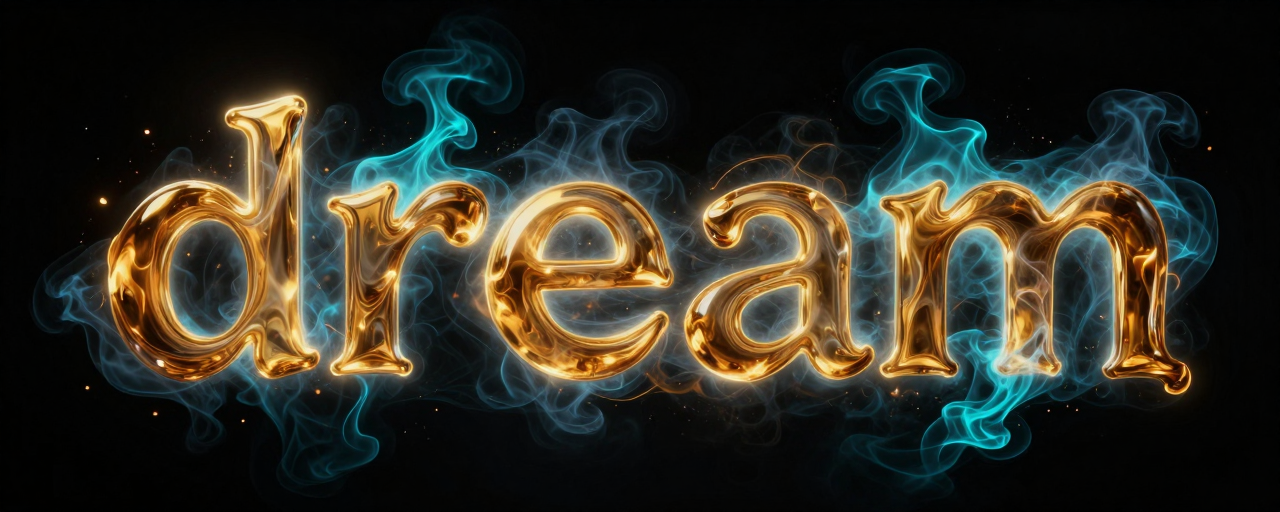
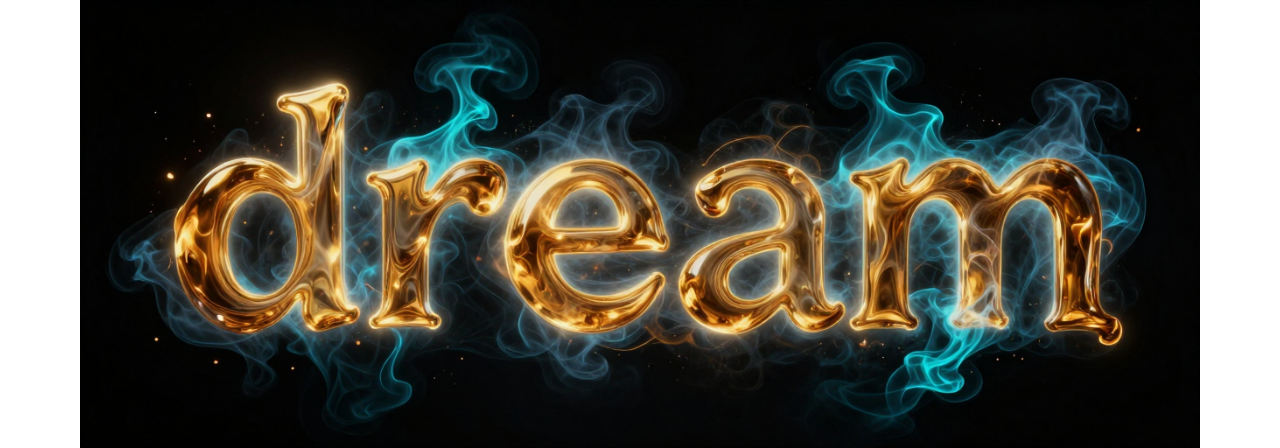
art: Fibonacci-nautilus dream hero (single image morphing neon->gold->crystal->aurora), rounded corners; alternatives folded

diff --git a/README.md b/README.md
@@ -1,23 +1,30 @@
 <div align="center">
 
-<!-- PICK ONE (temporary) -->
+<img src="assets/banner-spiral.png" alt="dream — a Fibonacci nautilus morphing through neon, gold, crystal and aurora" width="760">
+
+<!-- PICK ONE (temporary) — alternatives -->
+<details>
+<summary><b>Other directions</b></summary>
+
+<br>
 
 **A — Neon noir**
 
-<img src="assets/banner-neon.png" alt="neon noir" width="720">
+<img src="assets/banner-neon.png" alt="neon noir" width="640">
 
 **B — Liquid gold & smoke**
 
-<img src="assets/banner-ink.png" alt="liquid gold and smoke" width="720">
+<img src="assets/banner-ink.png" alt="liquid gold and smoke" width="640">
 
 **C — Crystalline portal**
 
-<img src="assets/banner-crystal.png" alt="crystalline portal" width="720">
+<img src="assets/banner-crystal.png" alt="crystalline portal" width="640">
 
 **D — Aurora**
 
-<img src="assets/banner-aurora.png" alt="aurora" width="720">
+<img src="assets/banner-aurora.png" alt="aurora" width="640">
 
+</details>
 <!-- /PICK ONE -->
 
 **A one-breath primer that returns you to full awareness.**
